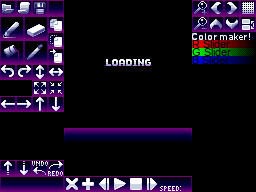
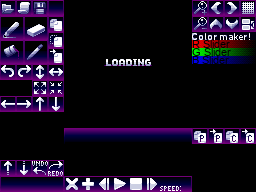
added color stuff

Changed region(s): [[0.75, 0.6562, 1.0, 0.75]]

diff --git a/source/main.cpp b/source/main.cpp
@@ -87,7 +87,6 @@
 #define CACHE_PATH  APP_PATH "cache/"
 #define ANIM_TEMP  CACHE_PATH "animation.temp"
 #define ANIM_TEMP_NEW CACHE_PATH "animation_new.temp"
-
[1 lines of base64/hex data omitted]
 static PrintConsole topConsole;
 //static PrintConsole bottomConsole;
@@ -129,6 +128,7 @@ int palettePos = 0;
 int paletteBpp = 8;
 
 int paletteOffset = 0;
+int bucketMode;
 bool nesMode = false;
 bool usesPages = false;
 u8 palEdit[3];
@@ -1017,13 +1017,47 @@ void bitmapMode()
     bgUpdate();
     oamUpdate(&oamSub);
 }
+char bucketText[2][6] = {"Color","Index"};
 void drawInfo(){
     u32 ticks = frameEndTime - frameStartTime;
     u32 cpuUsage = ((u64)(ticks) * 11732)>>16;
     consoleClear();
     if(animation.frames != 0){printf("frame: %d / %d",animation.pos,animation.frames);}
-    printf("\n\n\n\n%d",fps);
+    else{
+        printf("\n");
+    }
+    if(bucketMode != 0){
+        printf("\nBucket: replace %s", bucketText[bucketMode-1]);
+    }
+    else{
+        printf("\n");
+    }
+    printf("\n\n%d",fps);
     printf("\n%lu",cpuUsage);
+}
+//====================================================================Backups==============================================================|
+void setBackupVariables(){
+    backupIndex = 0;
+    backupSize = 1<<surfaceXres<<surfaceYres;
+    backupMax = 131072>>surfaceXres>>surfaceYres;
+    //reinicia el backup
+    for(int i = 0; i < 131072; i++){
+        backup[i] = 0;
+    }
+}
+void backupWrite(){
+    backupIndex++;
+    if(backupIndex >= backupMax){
+        backupIndex = 0;
+    }
+    int index = backupIndex*backupSize;
+    //copia surface a backup+ su index
+    dmaCopyHalfWords(2, surface, backup + index, backupSize * sizeof(u16));
+}
+void backupRead(){
+    // Calculamos el índice del bloque en el array backup
+    int index = backupIndex * backupSize;
+    dmaCopyHalfWords(2, backup + index, surface, backupSize * sizeof(u16));
 }
 //============================================================= SD CARD ===============================================|
 void createAppFolder(){
@@ -1320,16 +1354,12 @@ void handleKey(char key) {
             break;
 
         case '>': // enter
-            // aquí podrías procesar el texto completo, por ejemplo:
-            // guardarTexto(fname);
-            // limpiar el buffer si quieres:
             fname[0] = '\0';
+            kDown = KEY_START;
             break;
 
         case '<': // salir
-            // aquí pones tu código de salida o retorno
-            // por ejemplo:
-            // returnToMenu();
+            kDown = KEY_SELECT;
             break;
 
         default:
@@ -1346,9 +1376,44 @@ void handleKey(char key) {
             break;
     }
 }
+void replaceIndex(u16 *surface, u16 oldColor, u16 newColor){
+    //guardar un backup para undo 
+    backupWrite();
+    //ahora sí reemplazamos todos los indices
+    int size  = 1 << surfaceXres<<surfaceYres;
+    for(int i = 0; i < size; i++){
+        if(surface[i] == oldColor) surface[i] = newColor;
+    }
+}
+
+void swapIndex(u16 oldIndex, u16 newIndex){
+    // Swap en paleta
+    u16 tmp = palette[oldIndex];
+    palette[oldIndex] = palette[newIndex];
+    palette[newIndex] = tmp;
+
+    // Swap de índices en el surface
+    int total = 1<<surfaceXres<<surfaceYres;
+    for(int i = 0; i < total; i++){
+        if(surface[i] == oldIndex) surface[i] = newIndex;
+        else if(surface[i] == newIndex) surface[i] = oldIndex;
+    }
+    //actualizamos ahora todo visualmente
+    if(paletteBpp != 16){
+        drawSurfaceMain();
+        drawSurfaceBottom();
+    }
+    updatePal(0,&palettePos);
+    drawColorPalette();
+}
 void floodFill(u16 *surface, int x, int y, u16 oldColor, u16 newColor, int xres, int yres) {
     if (oldColor == newColor) return;
-
+    if(bucketMode == 1){
+        replaceIndex(surface,oldColor,newColor);
+        return;
+    }else if(bucketMode == 2){
+        swapIndex(oldColor,newColor);
+    }
     int width  = 1 << xres;
     int height = 1 << yres;
     if (x < 0 || y < 0 || x >= width || y >= height) return;
@@ -1382,7 +1447,6 @@ void floodFill(u16 *surface, int x, int y, u16 oldColor, u16 newColor, int xres,
         }
     }
 }
-
 
 void applyTool(int x, int y, bool dragging) {
     if(x == prevx && y == prevy){return;}
@@ -1527,28 +1591,28 @@ void pasteFromStackToSurface()
 
 //para paletas
 inline void copyPalette(){
-    int iterations = 1<<paletteBpp;
+    int iterations = (paletteBpp >= 8) ? 256 : (1 << paletteBpp);
     for(int i = 0; i < iterations;i++){
         stack[i] = palette[i+paletteOffset];
     }
 }
 
 inline void pastePalette(){
-    int iterations = 1<<paletteBpp;
+    int iterations = (paletteBpp >= 8) ? 256 : (1 << paletteBpp);
     for(int i = 0; i < iterations;i++){
         palette[i+paletteOffset] = stack[i];
     }
 }
 
 inline void copyColor(){
-    stack[0] = palette[palettePos];
+    stack[0] = palette[palettePos+paletteOffset];
 }
 
 inline void pasteColor(){
-    palette[palettePos] = stack[0];
+    palette[palettePos+paletteOffset] = stack[0];
 }
 
-void flipH() {
+void flipH(){
     copyFromSurfaceToStack();
 
     int ysize = 1 << stackYres;
@@ -1828,31 +1892,6 @@ void shiftLeftWrap() {
 
     pasteFromStackToSurface();
 }
-
-//====================================================================Backups==============================================================|
-void setBackupVariables(){
-    backupIndex = 0;
-    backupSize = 1<<surfaceXres<<surfaceYres;
-    backupMax = 131072>>surfaceXres>>surfaceYres;
-    //reinicia el backup
-    for(int i = 0; i < 131072; i++){
-        backup[i] = 0;
-    }
-}
-void backupWrite(){
-    backupIndex++;
-    if(backupIndex >= backupMax){
-        backupIndex = 0;
-    }
-    int index = backupIndex*backupSize;
-    //copia surface a backup+ su index
-    dmaCopyHalfWords(2, surface, backup + index, backupSize * sizeof(u16));
-}
-void backupRead(){
-    // Calculamos el índice del bloque en el array backup
-    int index = backupIndex * backupSize;
-    dmaCopyHalfWords(2, backup + index, surface, backupSize * sizeof(u16));
-}
 //====================================================================MAIN==================================================================================================================|
 int main(void) {
     defaultExceptionHandler();// Mostrar crasheos
@@ -2117,7 +2156,14 @@ int main(void) {
                             int col = touch.px > 24 ? 1 : 0;
                             int row = touch.py > 40 ? 2 : 0;
                             //convertir col+row a un valor único
+                            ToolType prevTool = currentTool;
                             currentTool = (ToolType)(row + col);
+                            if(currentTool == prevTool && currentTool == TOOL_BUCKET){
+                                bucketMode++;
+                                if(bucketMode > 2){
+                                    bucketMode = 0;
+                                }
+                            }
                             if(currentTool == TOOL_BRUSH){
                                 setBrushSettingsSprites(true);
                             }else{
@@ -2288,7 +2334,7 @@ int main(void) {
                             stylusPressed = true;
                             goto frameEnd;
                         }
-                        if(touch.py < 40 && touch.py > 32 && paletteBpp == 16){//transparencia
+                        else if(touch.py < 40 && touch.py > 32 && paletteBpp == 16){//transparencia
                             paletteAlpha = (touch.px-192);
 
                             AVdrawRectangle(pixels,192,63,32,8,palette[palettePos]);
@@ -2299,7 +2345,7 @@ int main(void) {
                         }
                         else if(touch.py >= 40 && touch.py < 64)//creador de colores
                         {
-                            //hay mucho código hardcodeado aquí para mejorar el rendimiento
+                            //hay mucho código hardcodeado aquí para mejorar el rendimiento :>
                             if(nesMode){
                                 int ystart = 48;
                                 int row = (touch.px-192)>>2;
@@ -2324,8 +2370,33 @@ int main(void) {
                                 goto frameEnd;
                             }
                         }
-                        else//seleccionar un color en la paleta
-                        {
+                        else if(touch.py > 128){//botones inferior derecha
+                            //obtenemos el indice a base de donde apretamos
+                            int row = (touch.px-192)>>4;
+                            int pos = row;
+                            switch(pos){
+                                case 0:
+                                    copyPalette();
+                                break;
+
+                                case 1:
+                                    pastePalette();
+                                break;
+
+                                case 2:
+                                    copyColor();
+                                break;
+
+                                case 3:
+                                    pasteColor();
+                                break;
+                            }
+                            drawColorPalette();
+                            updatePal(0,&palettePos);
+                            updated = true;
+                            goto frameEnd;
+                        }
+                        else{//seleccionar un color en la paleta
                             if(stylusPressed == false)
                             {
                                 int row = (touch.py-64)>>2;
